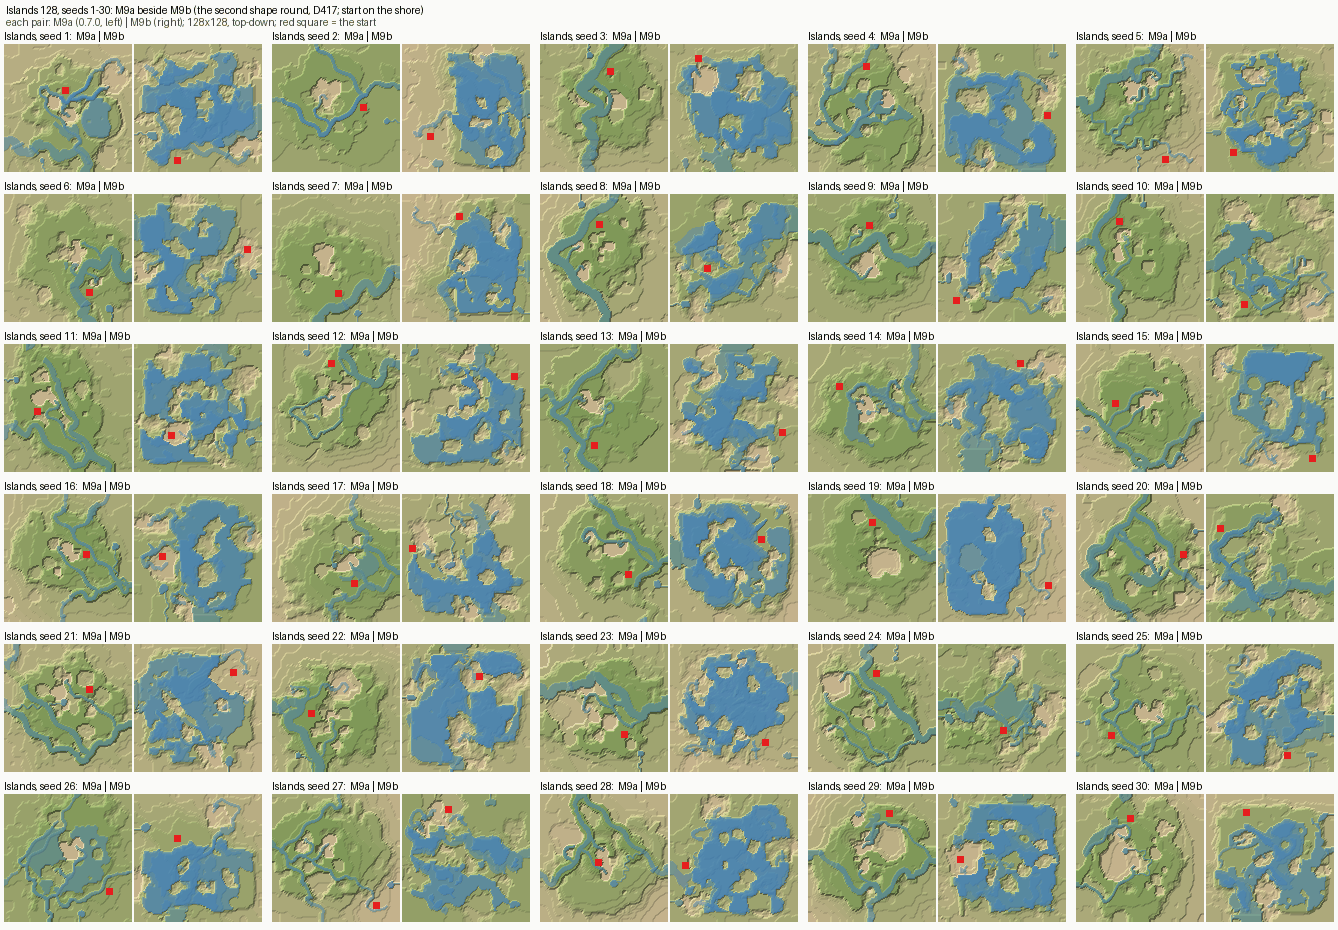
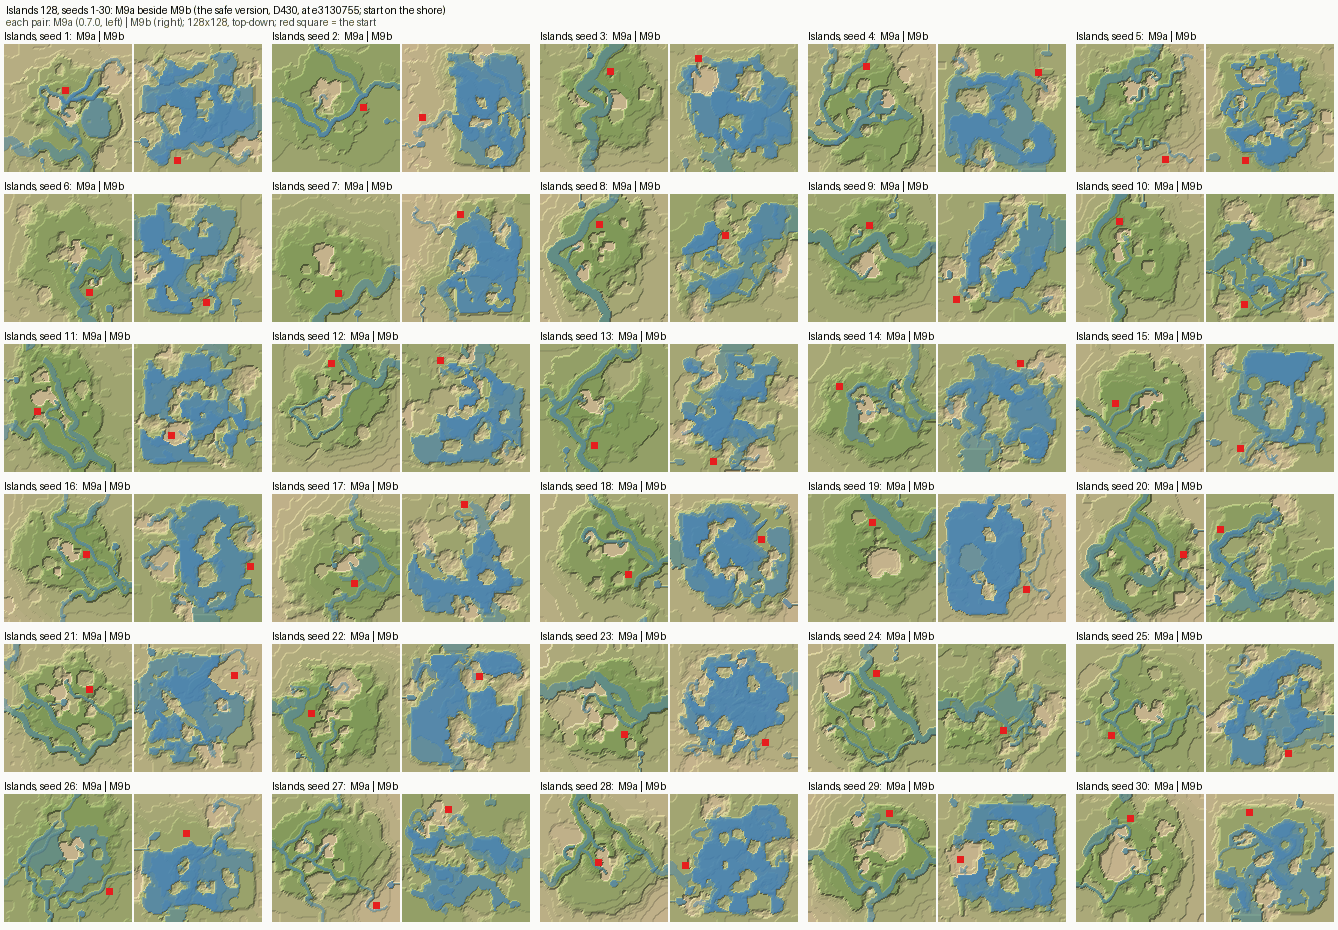
Islands sheet re-rendered at e3130755 (the shelf fix moves 22 of 30 maps: starts and local ground; layouts, counts and shores unchanged)

diff --git a/docs/progress/m9b.md b/docs/progress/m9b.md
@@ -272,6 +272,13 @@ from pins. Each was traced to its cause and fixed (e3130755). The quick suite ne
 - The rows are committed as the new baseline, `investigation/m9b/baseline/e3130755-*.jsonl.gz`
   (`compare.py e3130755 <run>`).
 
+**The Islands sheet, re-rendered** (`docs/sheets/m9b-islands.png`, at e3130755, in the format Kyler
+accepted). The shelf fix moves 22 of the 30 maps at 128²: the starts on 18, and local ground round the
+starts, pads and hollows. The layouts and islands are the same (the largest island on each seed is
+the same size). Whether each moved start still reaches the island the reach table names is not
+checked again. All 30 pass, the promise on 20, all three on 19, every start on the shore, as on the sheet
+he accepted (at be9b645c).
+
 **The heavy suite** (nightly; on 1179614b, under other sessions' load): 47 pass, 16 fail.
 - `settings.test.ts`: the four known shortfalls held for the settings round 2 (Verticality, Lakes and
   basins, Waterfalls, Designed for), as before.
